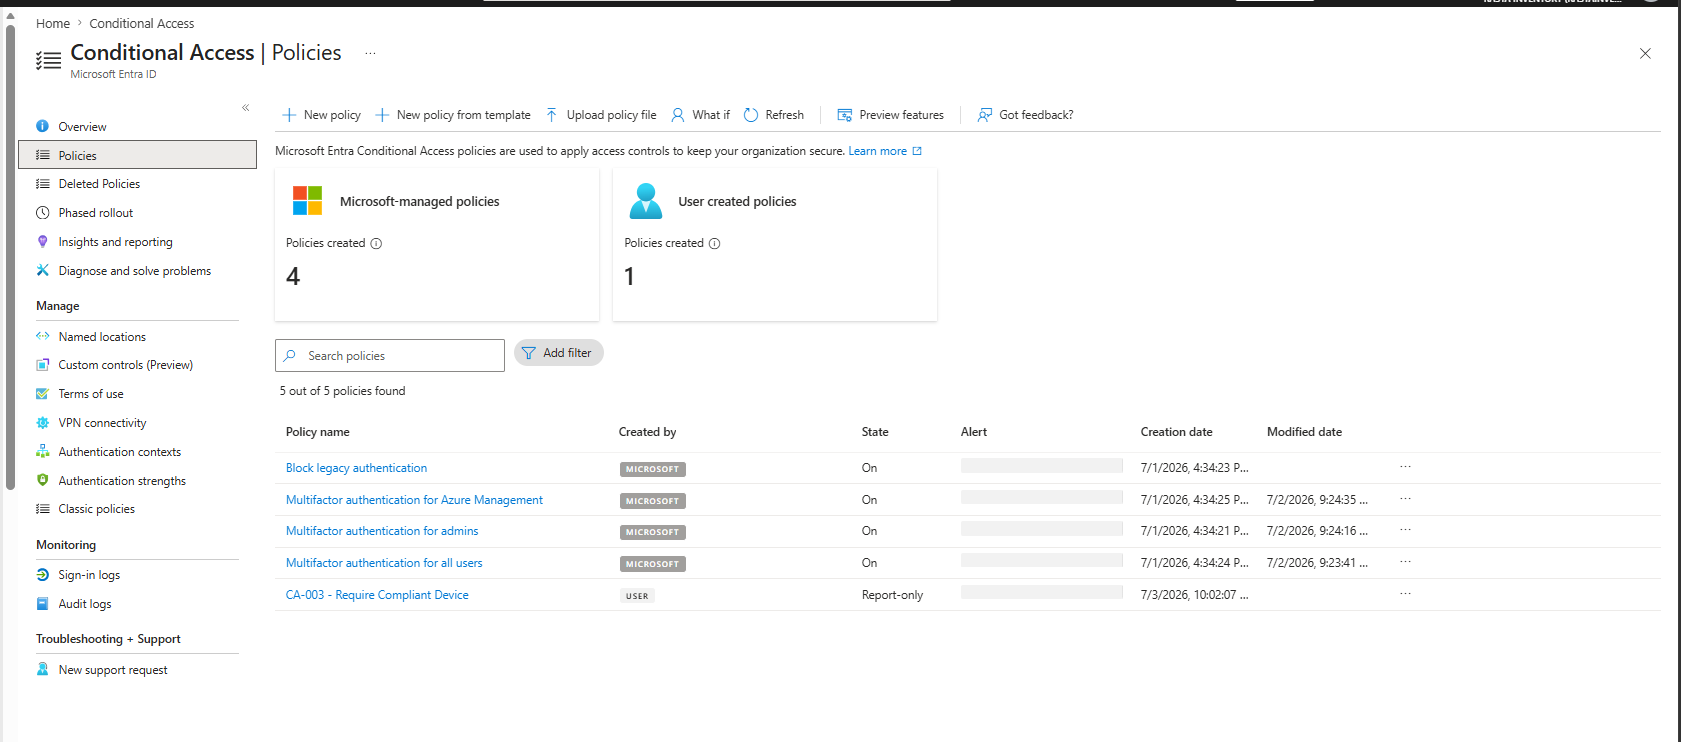
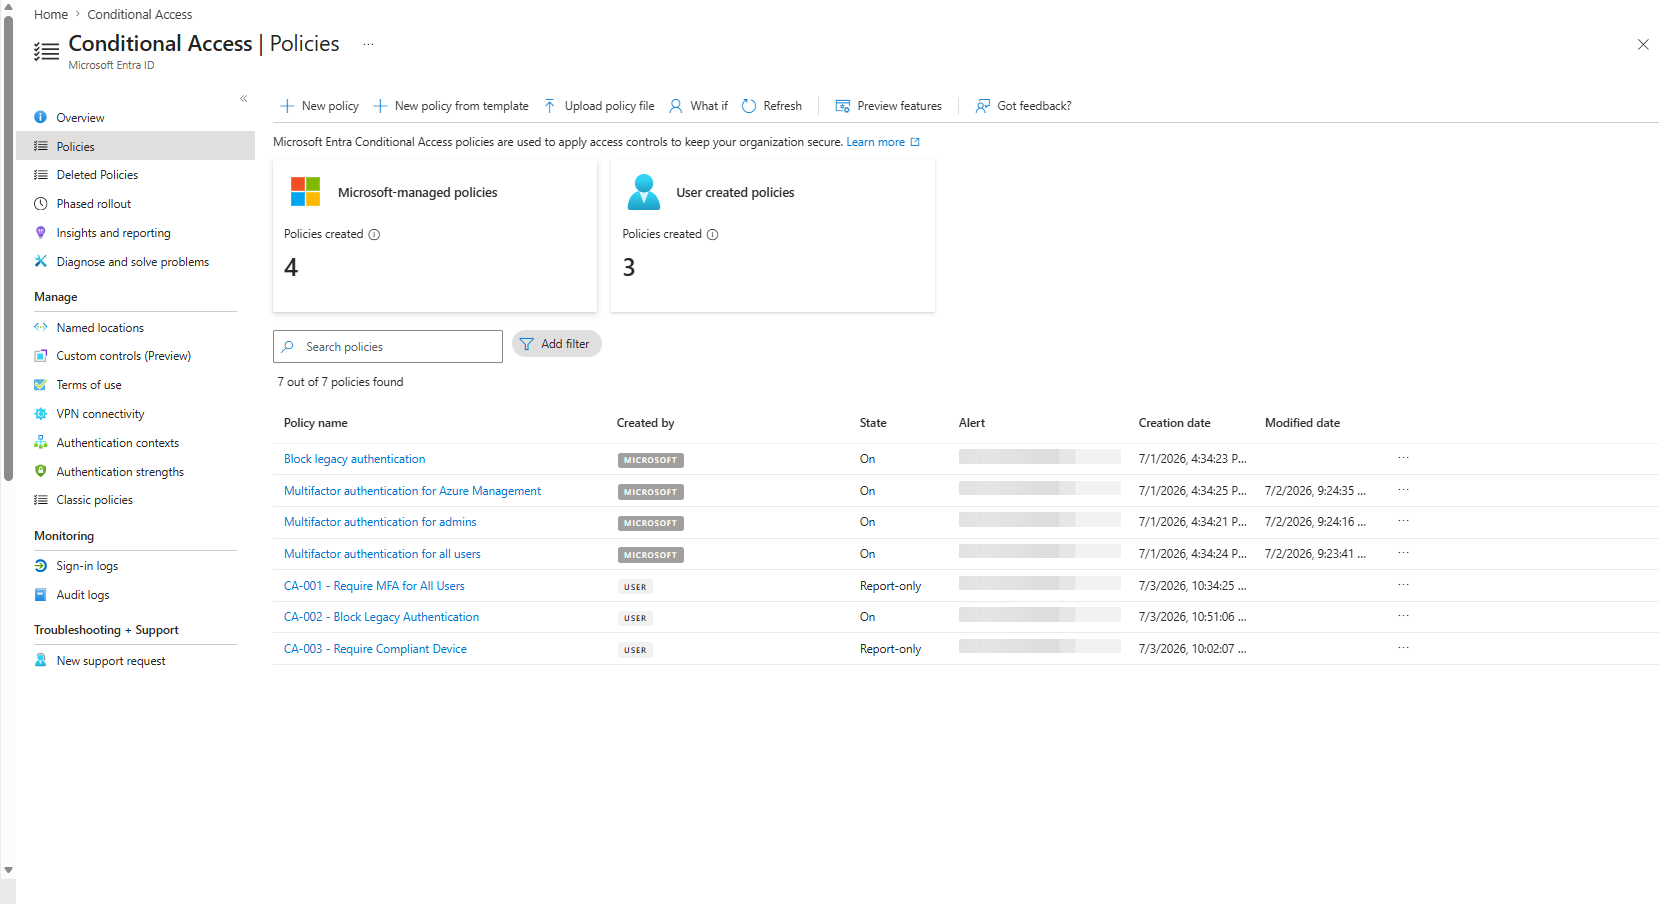
Document CA-001 and CA-002, update policies list to 7 policies

diff --git a/entra-id/conditional-access-policies.md b/entra-id/conditional-access-policies.md
@@ -6,9 +6,9 @@ Conditional Access is the policy engine in Microsoft Entra ID that controls who 
 
 The break-glass emergency access account is excluded from every policy in this document. See [emergency-access-account.md](./emergency-access-account.md) for the reasoning.
 
-![All CA policies — 4 Microsoft-managed, 1 user-created](./screenshots/10-ca-policies-list.png)
+![All CA policies — 4 Microsoft-managed, 3 user-created](./screenshots/10-ca-policies-list.png)
 
-*5 policies total as of July 2026: 4 Microsoft-managed (all On) + CA-003 user-created (Report-only)*
+*7 policies total as of July 2026: 4 Microsoft-managed (all On) + 3 user-created (CA-001 Report-only, CA-002 On, CA-003 Report-only)*
 
 ---
 
@@ -40,7 +40,7 @@ Requires MFA for every user across all Microsoft cloud apps. Break-glass is excl
 | Cloud apps | All apps |
 | Requirement | MFA |
 
-Adds a specific MFA requirement targeting accounts assigned admin roles. The break-glass account holds Global Administrator but is excluded — consistent with emergency access design.
+Targets accounts assigned admin roles with an additional MFA requirement. Break-glass holds Global Administrator but is excluded — consistent with emergency access design.
 
 ### 3. Multifactor authentication for Azure Management
 
@@ -65,19 +65,68 @@ Specifically targets sign-ins to Azure management portals. Break-glass is exclud
 | Client apps | Exchange ActiveSync, Other clients (legacy auth protocols) |
 | Grant | Block access |
 
-Blocks all legacy authentication protocols — SMTP, POP3, IMAP, basic auth. These protocols cannot enforce MFA, making them the most common vector for Microsoft 365 account takeovers. This policy has no exclusions because legacy auth has no legitimate use case in a managed environment.
+Blocks all legacy authentication protocols. These protocols cannot enforce MFA, making them the most common vector for Microsoft 365 account takeovers.
 
 ---
 
 ## User-Created Policies
+
+### CA-001 — Require MFA for All Users
+
+| Setting | Value |
+|---------|-------|
+| Status | Report-only |
+| Created | 3 July 2026, 10:34 AM |
+| Users included | All users |
+| Users excluded | Break-glass account |
+| Target resources | All resources (all cloud apps) |
+| Requirements for access | Require multifactor authentication |
+| Client apps | 1 included (modern auth) |
+
+![CA-001 Require MFA for All Users — policy details](./screenshots/12-ca-001-require-mfa.png)
+
+> **Why create this when Microsoft already has an MFA policy?**
+> The Microsoft-managed "Multifactor authentication for all users" policy is controlled by Microsoft and can be modified or removed by Microsoft at any time. CA-001 is an administrator-controlled duplicate that ensures MFA enforcement persists regardless of what happens to the Microsoft-managed version. It also gives full visibility and control over the policy conditions, exclusions, and grant requirements from within this tenant.
+
+> **Why Report-only?**
+> With MFA already enforced by the Microsoft-managed policy (currently On), setting CA-001 to Report-only allows evaluation of what this policy would affect without creating duplicate enforcement. Once the Microsoft-managed policies are reviewed and potentially disabled in favour of this user-controlled version, CA-001 will be switched to On.
+
+> **Break-glass exclusion:**
+> The break-glass account is excluded. A blanket MFA policy must always have an emergency bypass — if MFA infrastructure fails, the break-glass account provides a path back in.
+
+---
+
+### CA-002 — Block Legacy Authentication
+
+| Setting | Value |
+|---------|-------|
+| Status | On |
+| Created | 3 July 2026, 10:51 AM |
+| Users included | All users |
+| Users excluded | None (legacy auth blocked for everyone) |
+| Target resources | All resources |
+| Conditions — Client apps | Exchange ActiveSync clients, Other clients |
+| Grant | Block access |
+
+![CA-002 Block Legacy Authentication — policy details](./screenshots/13-ca-002-block-legacy-auth.png)
+
+> **Why is this set to On immediately (not Report-only)?**
+> Legacy authentication protocols — SMTP AUTH, POP3, IMAP, basic auth, Exchange ActiveSync — cannot enforce MFA. Any account using legacy auth is a credential-spray target. Microsoft already has a Block legacy authentication policy active on this tenant, so a second user-controlled policy set to On adds no additional lockout risk. All users in this environment authenticate through modern auth (browser, Microsoft 365 apps with OAuth). Blocking legacy auth immediately is zero-risk and closes a well-known attack vector.
+
+> **Why no break-glass exclusion?**
+> The break-glass account uses modern authentication (browser sign-in with MFA). Legacy auth exclusions serve no purpose here — if break-glass were using legacy auth, that itself would be a security problem. The policy is intentionally clean with no exclusions.
+
+> **Why target Exchange ActiveSync and Other clients specifically?**
+> Modern auth clients (Browser, Mobile apps and desktop clients using OAuth) must remain unblocked — those are the legitimate sign-in paths. Only legacy auth client types are targeted, so this policy has no impact on any user performing a normal sign-in.
+
+---
 
 ### CA-003 — Require Compliant Device
 
 | Setting | Value |
 |---------|-------|
 | Status | Report-only |
-| Created by | [ADMIN-ACCOUNT] |
-| Created | 3 July 2026 |
+| Created | 3 July 2026, 10:02 AM |
 | Users included | All users |
 | Users excluded | Break-glass account |
 | Target resources | Office 365 |
@@ -87,46 +136,33 @@ Blocks all legacy authentication protocols — SMTP, POP3, IMAP, basic auth. The
 ![CA-003 Require Compliant Device — policy summary](./screenshots/11-ca-003-compliant-device.png)
 
 > **Why Report-only?**
-> Intune device enrollment has not yet occurred. Turning this policy On before devices are enrolled and marked compliant in Intune would immediately block every user from Office 365. Report-only mode logs what *would* have been blocked without enforcing anything. This policy switches to On in Phase 4, after all 11 machines are enrolled and compliance policies are in place.
+> Intune device enrollment has not yet occurred. Turning this On before devices are enrolled and marked compliant would immediately block every user from Office 365. This policy switches to On in Phase 4 after all 11 machines are enrolled and compliance policies are configured.
 
 > **Why Office 365 and not All cloud apps?**
-> Scoping to Office 365 (Exchange, SharePoint, Teams, OneDrive) limits the blast radius during evaluation. Once device compliance is confirmed across the fleet, the scope can be widened to cover all cloud apps.
+> Scoping to Office 365 limits the blast radius during evaluation. Once device compliance is confirmed across the fleet, the scope will be widened.
 
 > **Why are macOS, iOS, Android, and Linux excluded?**
-> The IMS fleet is 11 Windows machines — no other platforms are enrolled in Intune. Microsoft warns that applying a compliant device requirement to unenrolled platforms causes certificate prompts or unexpected blocks if the policy is turned On. The exclusion keeps non-Windows platforms unaffected until they are formally onboarded.
+> The IMS fleet is 11 Windows machines. No other platforms are enrolled in Intune. The exclusion prevents certificate prompts or unexpected blocks on those platforms if the policy is enabled before they are onboarded.
 
 > **Break-glass exclusion:**
-> Consistent with all other policies in this tenant. A policy capable of blocking all users must always have a known-working emergency bypass.
+> Consistent with all other policies. A policy capable of blocking all users must always have a known-working emergency bypass.
 
 ---
-
-### CA-001 — Require MFA for All Users
-- **Status:** Planned
-- Users: All users / Exclude: Break-glass
-- Apps: All cloud apps
-- Grant: Require MFA
-- Deployment: Report-only first, then Enabled
-
-### CA-002 — Block Legacy Authentication (User Policy)
-- **Status:** Planned
-- Users: All users
-- Client apps: Exchange ActiveSync + Other clients
-- Grant: Block access
-- Deployment: Enabled immediately
 
 ### CA-004 — Sign-In Risk Block
 - **Status:** Requires Entra ID P2 — not available on Business Premium
 - Planned: Block access on high sign-in risk
+- Will be documented here when licence is upgraded to P2
 
 ---
 
 ## Notes
 
-**Security Defaults vs Conditional Access:** These cannot run at the same time. When Microsoft-managed CA policies are active, Security Defaults are automatically disabled. This tenant runs on Conditional Access.
+**Security Defaults vs Conditional Access:** These cannot run simultaneously. When Microsoft-managed CA policies are active, Security Defaults are disabled. This tenant runs on Conditional Access.
 
-**Policy order:** Conditional Access policies do not have a priority order — all matching policies are evaluated and the most restrictive result wins. An explicit Block always overrides a Grant.
+**Policy order:** CA policies have no priority order — all matching policies are evaluated and the most restrictive result wins. An explicit Block always overrides a Grant.
 
-**Testing approach:** Each new policy is created in Report-only mode first. This lets you see what would have been blocked before enforcement begins, without locking anyone out.
+**Testing approach:** New policies are created in Report-only mode first. This logs what would have been blocked without enforcing anything. Exception: CA-002 (Block Legacy Authentication) was set to On immediately because legacy auth is already blocked by a Microsoft-managed policy — zero additional risk.
 
 ---
 